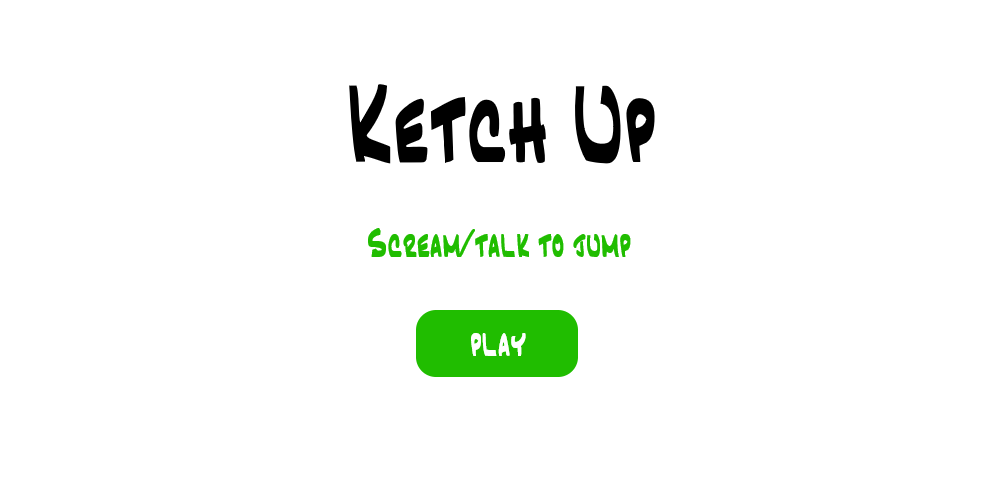
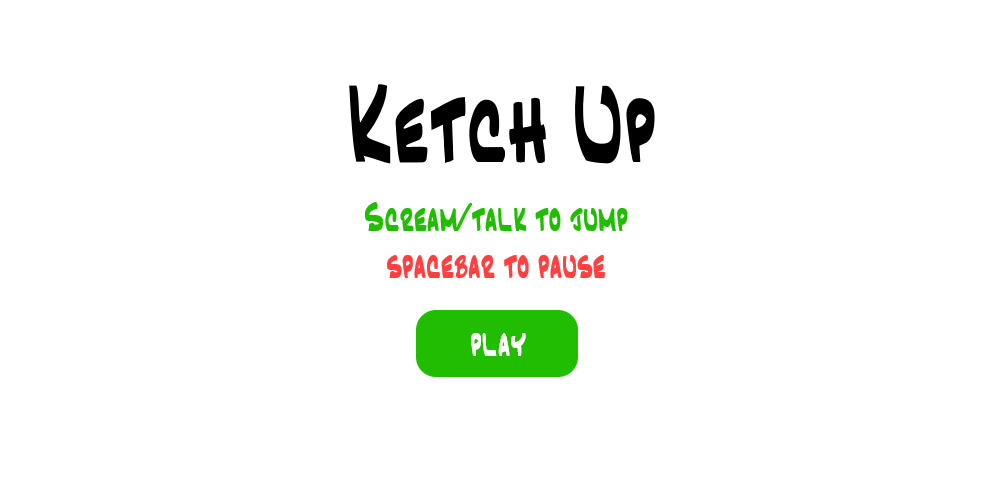
add spacebar to pause function

Changed region(s): [[0.341, 0.39, 0.651, 0.57]]

diff --git a/src/sketch.js b/src/sketch.js
@@ -131,7 +131,6 @@ function mouseClicked(){
 		else if(mouseX>=437 && mouseX<=504.5 && mouseY>=336 && mouseY<=365){
 			gameMode = 0;
 			paused = false;
-			console.log(gameMode);
 		}
 	}
 
@@ -143,7 +142,16 @@ function mouseClicked(){
 	}
 
 	else if(gameMode===2){
-		
+
+	}
+
+}
+
+function keyPressed(){
+
+	//when spacebar pressed, pause game
+	if(keyCode == 32 && gameMode==1){
+		paused = true;
 	}
 
 }
